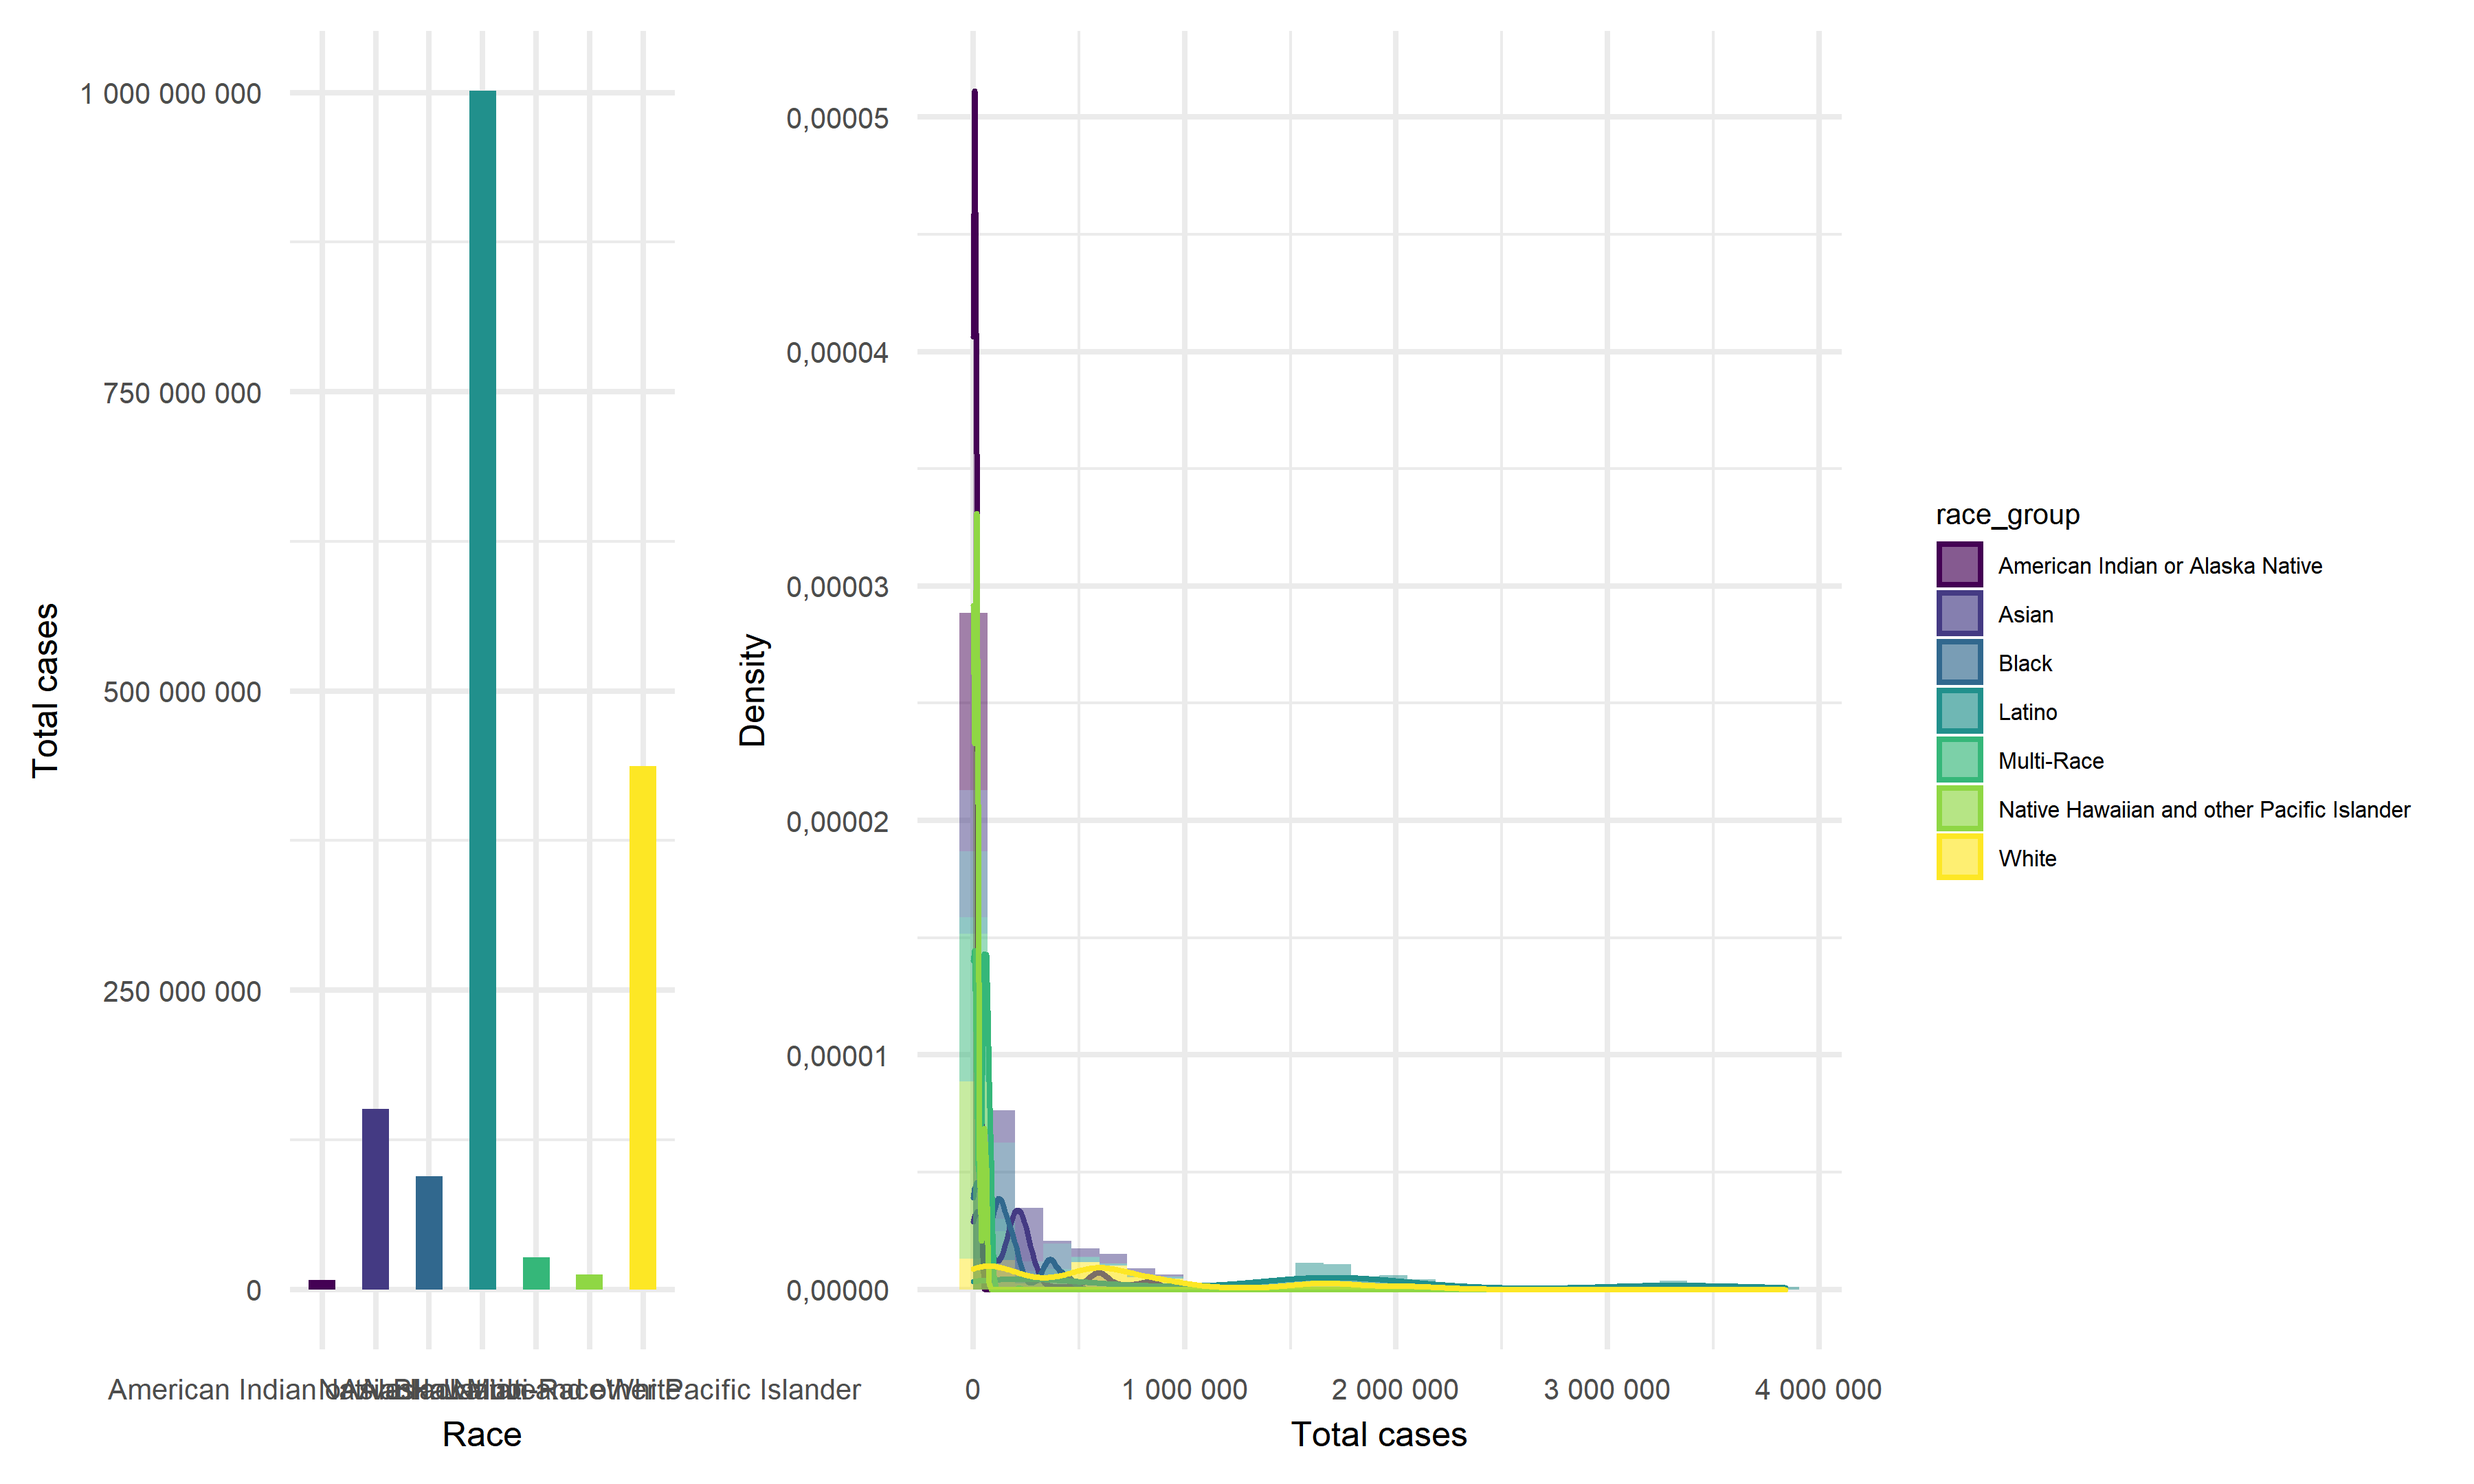
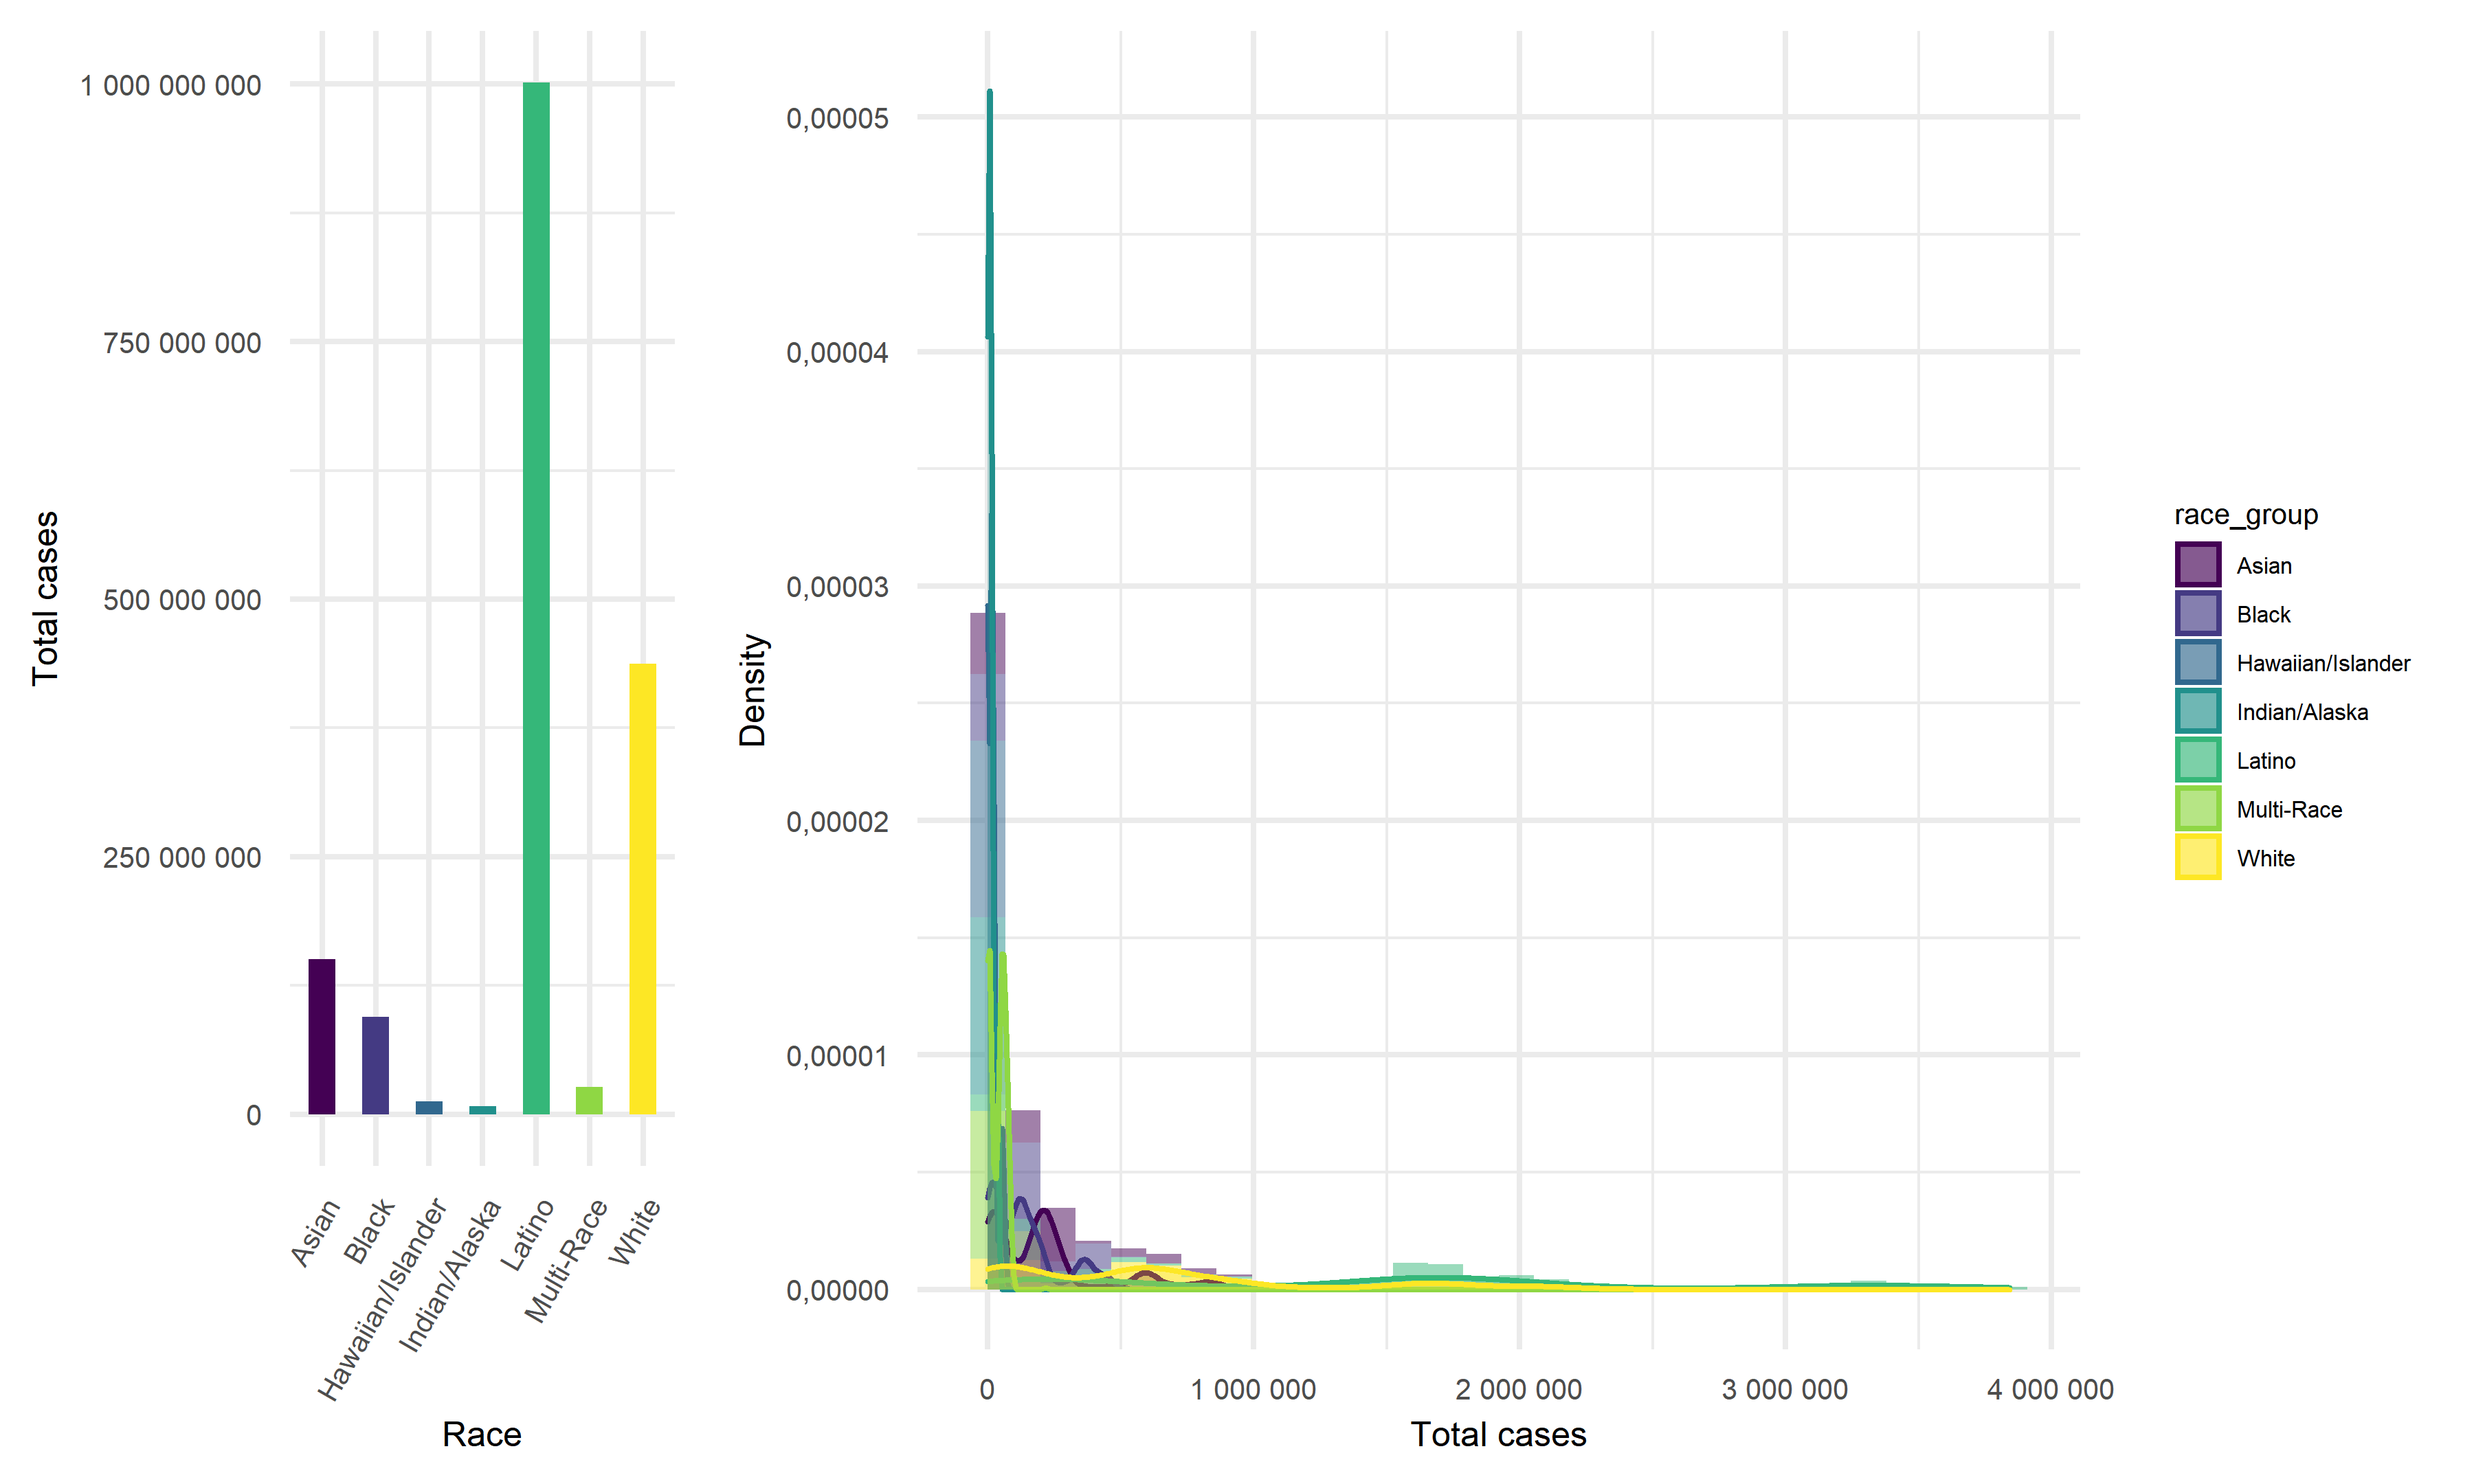
graph name correct

diff --git a/graph.html b/graph.html
@@ -519,6 +519,8 @@ grid.arrange(
  
     race %&gt;%
     filter(!race_group %in% c(&quot;Total&quot;, &quot;Other&quot;)) %&gt;% 
+    mutate(race_group = recode(race_group, &quot;American Indian or Alaska Native&quot; = &quot;Indian/Alaska&quot;,
+           &quot;Native Hawaiian and other Pacific Islander&quot; = &quot;Hawaiian/Islander&quot;)) %&gt;% 
     ggplot(aes(x = race_group, y = total_cases, fill = race_group)) +
     geom_bar(stat = &quot;identity&quot;, width = 0.5) +
     scale_fill_viridis(discrete = TRUE) +
@@ -535,11 +537,14 @@ grid.arrange(
           axis.text.x = element_text(size = 5),
           axis.title.y = element_text(size = 6),
           axis.text.y = element_text(size = 5)) +
+    theme(axis.text.x = element_text(angle = 60, hjust = 1)) +
     scale_y_continuous(labels = point),
     
 
     race %&gt;% 
-    filter(!race_group %in% c(&quot;Total&quot;, &quot;Other&quot;)) %&gt;%   
+    filter(!race_group %in% c(&quot;Total&quot;, &quot;Other&quot;)) %&gt;% 
+    mutate(race_group = recode(race_group, &quot;American Indian or Alaska Native&quot; = &quot;Indian/Alaska&quot;,
+           &quot;Native Hawaiian and other Pacific Islander&quot; = &quot;Hawaiian/Islander&quot;)) %&gt;% 
     ggplot(aes(x = total_cases, fill = race_group)) +
     geom_histogram(aes(y = ..density..), alpha = 0.5, bins = 30) +
     geom_density(alpha = 0.3, aes(color = race_group)) +
